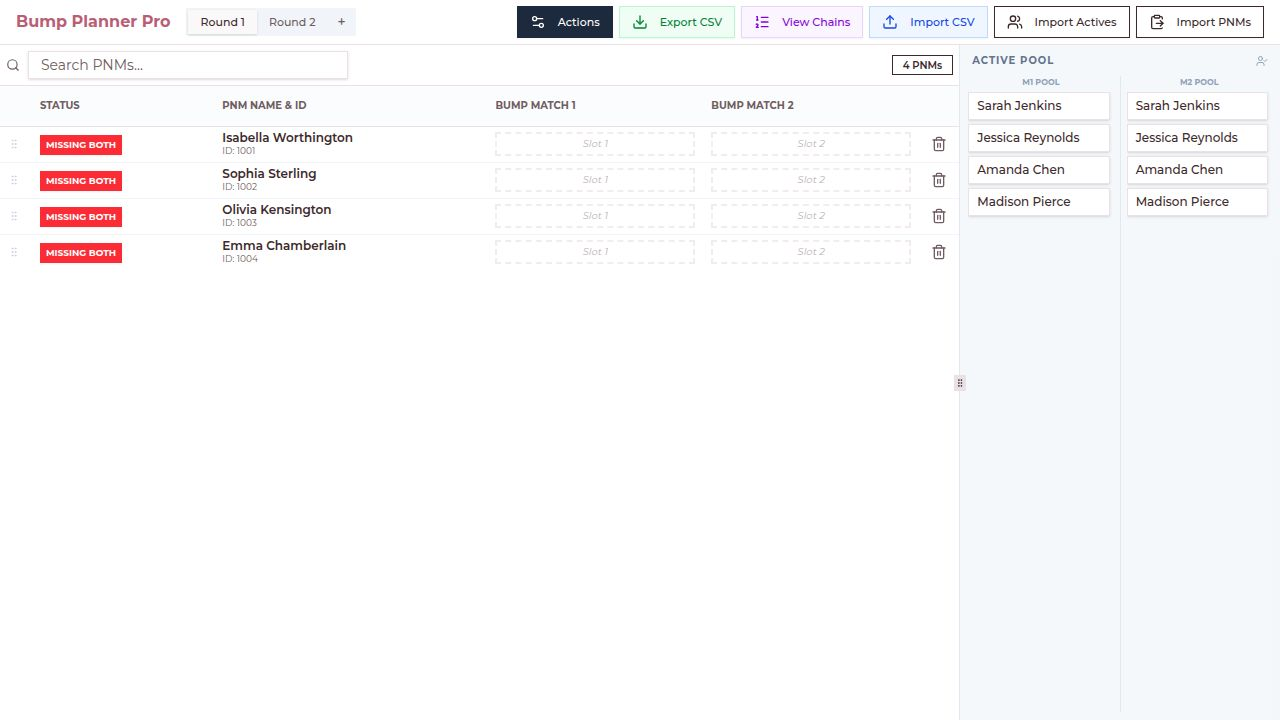
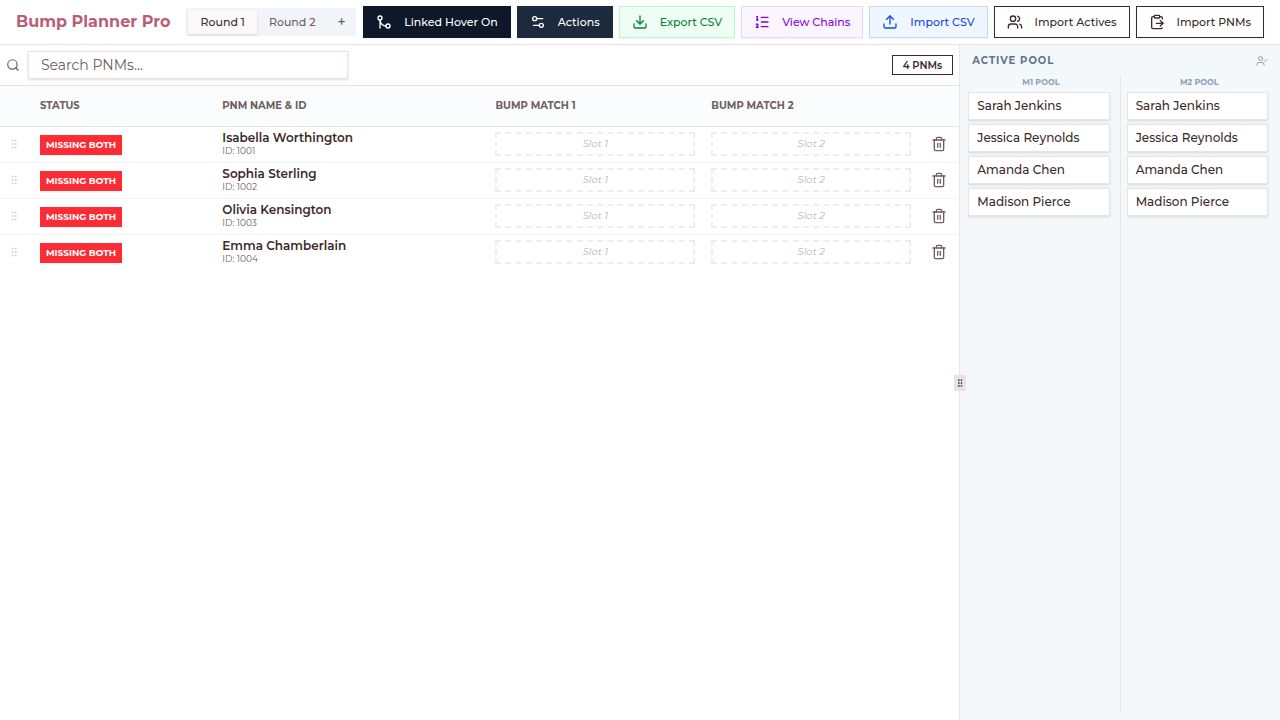
Add a toggle to enable or disable highlighting of connected people in chains
Introduce a toggle button to control the linked-chain hover highlighting feature, with updated chain display logic to omit the first person for handoff purposes.

Replit-Commit-Author: Agent
Replit-Commit-Session-Id: 38a8cf79-ac95-47f4-b238-5ee4f7307693
Replit-Commit-Checkpoint-Type: full_checkpoint
Replit-Commit-Event-Id: 3a39ede9-0335-47e9-92b9-84b6e3ce739b
Replit-Commit-Screenshot-Url: https://storage.googleapis.com/screenshot-production-us-central1/461f320f-3784-4a51-a7ee-7f857bf5cde1/38a8cf79-ac95-47f4-b238-5ee4f7307693/AavXuaS
Replit-Helium-Checkpoint-Created: true

Changed region(s): [[0.2812, 0.0, 0.4062, 0.0611]]

diff --git a/client/src/pages/dashboard.tsx b/client/src/pages/dashboard.tsx
@@ -44,6 +44,7 @@ interface ChainInfo {
   activeIds: string[];
   count: number;
   display: string;
+  handoffDisplay: string;
   isCycle: boolean;
   isOverLimit: boolean;
 }
@@ -64,6 +65,7 @@ export default function Dashboard() {
   const [isActiveImportOpen, setIsActiveImportOpen] = useState(false);
   const [isBumpChainsOpen, setIsBumpChainsOpen] = useState(false);
   const [chainLengthLimit, setChainLengthLimit] = useState(6);
+  const [isLinkedHoverEnabled, setIsLinkedHoverEnabled] = useState(true);
   const [hoveredActiveId, setHoveredActiveId] = useState<string | null>(null);
   const [hoveredPnmId, setHoveredPnmId] = useState<string | null>(null);
 
@@ -98,10 +100,15 @@ export default function Dashboard() {
     const pushChain = (activeIds: string[], isCycle: boolean) => {
       const names = activeIds.map(activeId => activeNameById.get(activeId) || activeId);
       const display = isCycle ? [...names, names[0]].join(" -> ") : names.join(" -> ");
+      const handoffNames = isCycle
+        ? [...names.slice(1), names[0]]
+        : names.slice(1);
+      const handoffDisplay = handoffNames.length > 0 ? handoffNames.join(" -> ") : names[0];
       const chain: ChainInfo = {
         activeIds,
         count: activeIds.length,
         display,
+        handoffDisplay,
         isCycle,
         isOverLimit: activeIds.length > chainLengthLimit,
       };
@@ -176,6 +183,10 @@ export default function Dashboard() {
   const highlightedActiveIds = useMemo(() => {
     const ids = new Set<string>();
 
+    if (!isLinkedHoverEnabled) {
+      return ids;
+    }
+
     const addLinkedActives = (activeId?: string) => {
       if (!activeId) {
         return;
@@ -203,9 +214,9 @@ export default function Dashboard() {
     }
 
     return ids;
-  }, [hoveredActiveId, hoveredPnmId, activeRound.pnms, chainAnalysis]);
+  }, [isLinkedHoverEnabled, hoveredActiveId, hoveredPnmId, activeRound.pnms, chainAnalysis]);
 
-  const hasLinkedHighlight = highlightedActiveIds.size > 0;
+  const hasLinkedHighlight = isLinkedHoverEnabled && highlightedActiveIds.size > 0;
 
   const dropWarnings = useMemo(() => {
     const warnings = new Map<string, { alreadyUsedInSlot: boolean; chainCount: number; isOverLimit: boolean }>();
@@ -647,7 +658,7 @@ export default function Dashboard() {
     }));
   };
 
-  const generateChains = () => chainAnalysis.chains.map(chain => chain.display);
+  const generateChains = () => chainAnalysis.chains.map(chain => chain.handoffDisplay);
 
   const exportToCSV = () => {
     const escapeCSV = (str: string) => {
@@ -717,6 +728,20 @@ export default function Dashboard() {
         </div>
         
         <div className="flex gap-1.5">
+          <Button
+            variant="outline"
+            size="sm"
+            className={`h-7 text-[11px] rounded-none border ${isLinkedHoverEnabled ? 'bg-slate-900 text-white border-slate-900 hover:bg-slate-800 hover:text-white' : 'bg-white text-slate-600 border-slate-200 hover:bg-slate-50'}`}
+            onClick={() => {
+              setIsLinkedHoverEnabled(prev => !prev);
+              setHoveredActiveId(null);
+              setHoveredPnmId(null);
+            }}
+            data-testid="button-toggle-linked-hover"
+          >
+            <GitMerge className="w-3 h-3 mr-1" /> {isLinkedHoverEnabled ? 'Linked Hover On' : 'Linked Hover Off'}
+          </Button>
+
           <DropdownMenu>
             <DropdownMenuTrigger asChild>
               <Button variant="outline" size="sm" className="h-7 text-[11px] rounded-none bg-slate-800 hover:bg-slate-700 border-slate-800 text-white hover:text-white">
@@ -784,7 +809,7 @@ export default function Dashboard() {
                   <div className="space-y-2">
                     {chainAnalysis.chains.map((chain, idx) => (
                       <div key={idx} className={`p-3 bg-slate-50 border text-sm font-medium shadow-sm flex items-start justify-between gap-4 ${chain.isOverLimit ? 'border-red-300 bg-red-50' : 'border-slate-100 text-slate-700'}`}>
-                        <div className={chain.isOverLimit ? 'text-red-800' : ''}>{chain.display}</div>
+                        <div className={chain.isOverLimit ? 'text-red-800' : ''}>{chain.handoffDisplay}</div>
                         <div className="flex items-center gap-2 shrink-0">
                           {chain.isOverLimit && <AlertTriangle className="w-4 h-4 text-red-500" />}
                           <Badge variant="outline" className={`text-[10px] rounded-none ${chain.isOverLimit ? 'bg-red-100 text-red-700 border-red-200' : ''}`}>
